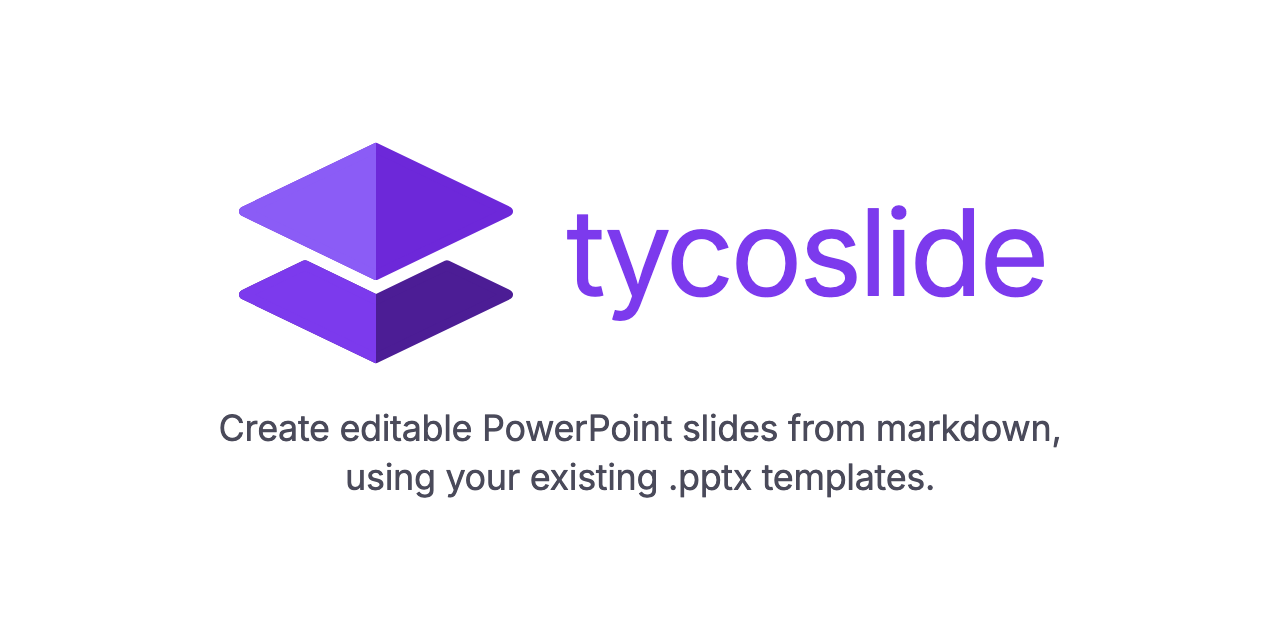
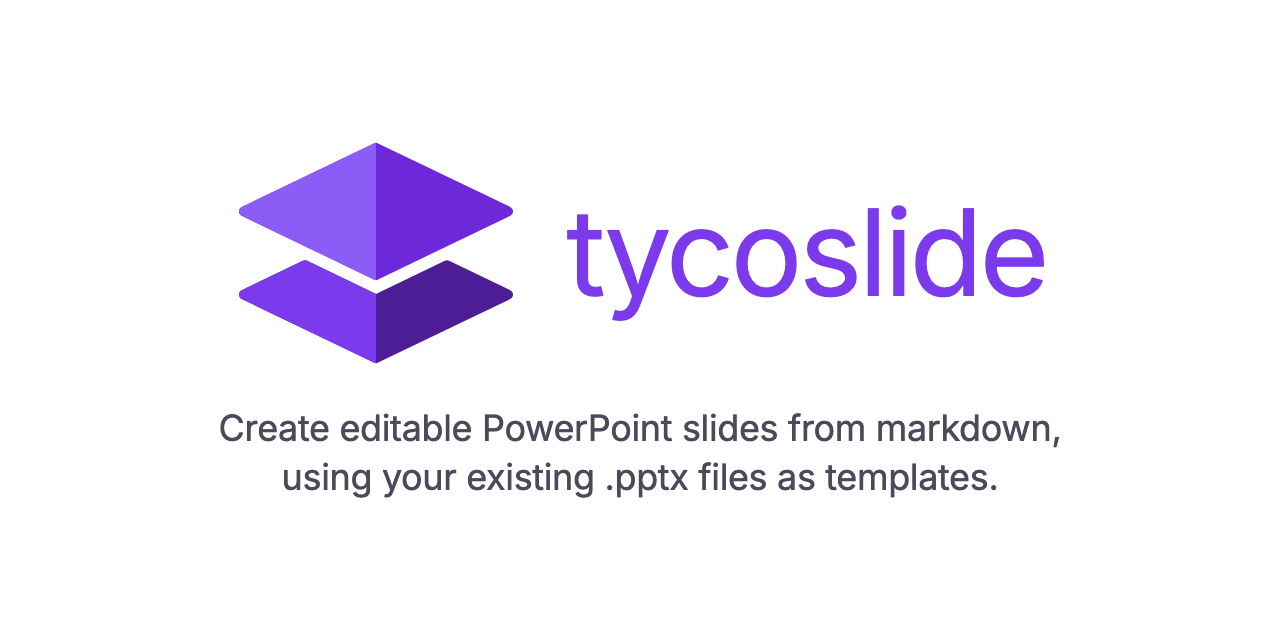
Say tycoslide uses existing .pptx files as templates, and tighten the intro
"Your existing .pptx templates" read as if you need a template to start; any .pptx you have can serve as one. The tagline now says "your existing .pptx files as templates" in the README, package.json and the social preview. The intro drops the Git clause, keeps the Marp and Slidev comparison, and adds that tycoslide turns your template into an agent skill.

Changed region(s): [[0.2188, 0.7188, 0.7812, 0.7812]]

diff --git a/README.md b/README.md
@@ -4,7 +4,7 @@
 
 <h1 align="center">tycoslide</h1>
 
-<p align="center">Create editable PowerPoint slides from markdown, using your existing .pptx templates.</p>
+<p align="center">Create editable PowerPoint slides from markdown, using your existing .pptx files as templates.</p>
 
 <p align="center">
   <a href="https://github.com/tycoworks/tycoslide/actions/workflows/ci.yml"><img src="https://github.com/tycoworks/tycoslide/actions/workflows/ci.yml/badge.svg" alt="CI"></a>
@@ -12,7 +12,7 @@
   <a href="https://github.com/tycoworks/tycoslide#licence"><img src="https://img.shields.io/badge/licence-MIT%20or%20Apache%202.0-blue" alt="Licence: MIT or Apache 2.0"></a>
 </p>
 
-tycoslide creates slides from markdown using your existing .pptx templates, so you can keep your decks in Git. Like [Marp](https://marp.app) or [Slidev](https://sli.dev), but with editable output.
+tycoslide creates slides from markdown using your existing .pptx files as templates. Like [Marp](https://marp.app) or [Slidev](https://sli.dev), but with editable output. It also turns your template into an agent skill, so anyone can build decks with it.
 
 ## Features
 
